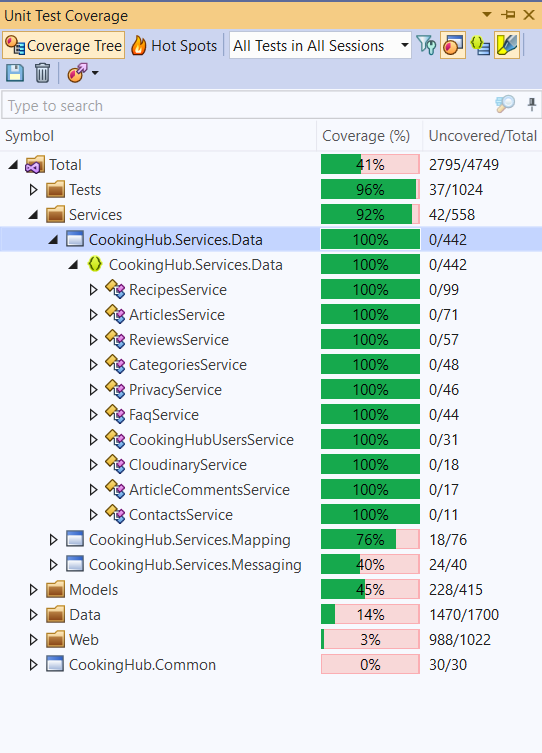
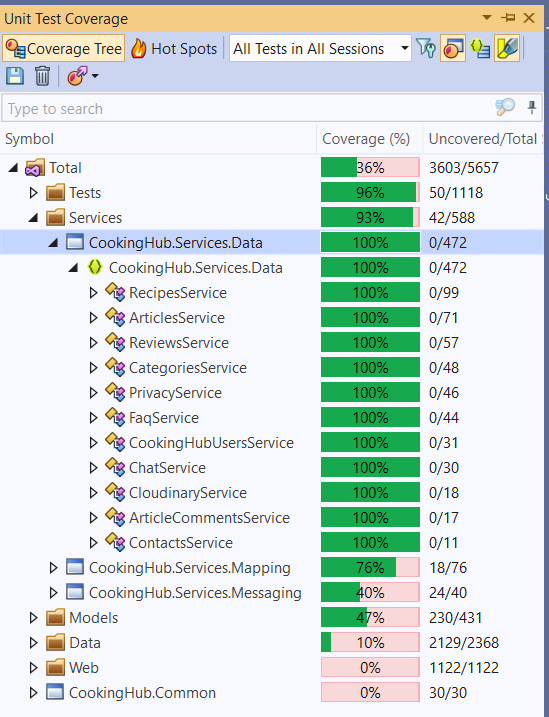
Update Database diagram and Tests code coverage
#13

Changed region(s): [[0.0, 0.0, 1.0, 1.0]]

diff --git a/README.md b/README.md
@@ -100,7 +100,7 @@ Cooking Hub е потребителски уеб-базиран софтуер, 
 * [xUnit](https://github.com/xunit/xunit)
 
 ## :floppy_disk: Database Diagram
-![Database Diagram](https://github.com/stanislavstoyanov99/CookingHub/blob/main/db-diagram.png)
+![Database Diagram](https://github.com/stanislavstoyanov99/CookingHub/blob/main/db-diagram.jpg)
 
 # Link
 https://cookinghub.azurewebsites.net/
